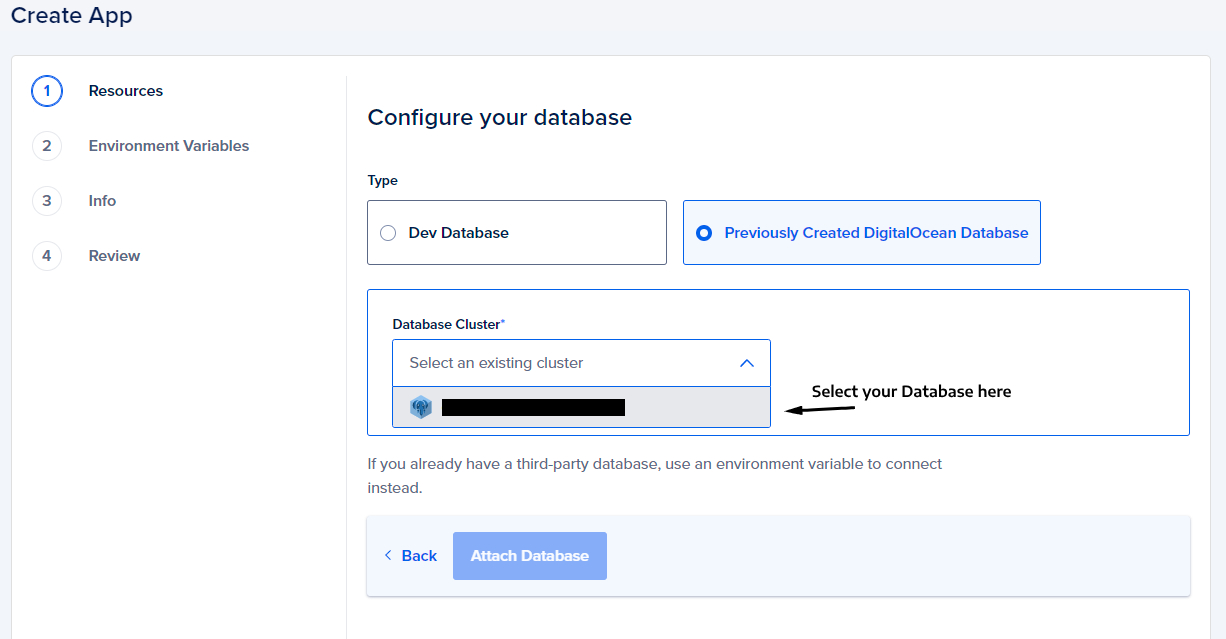
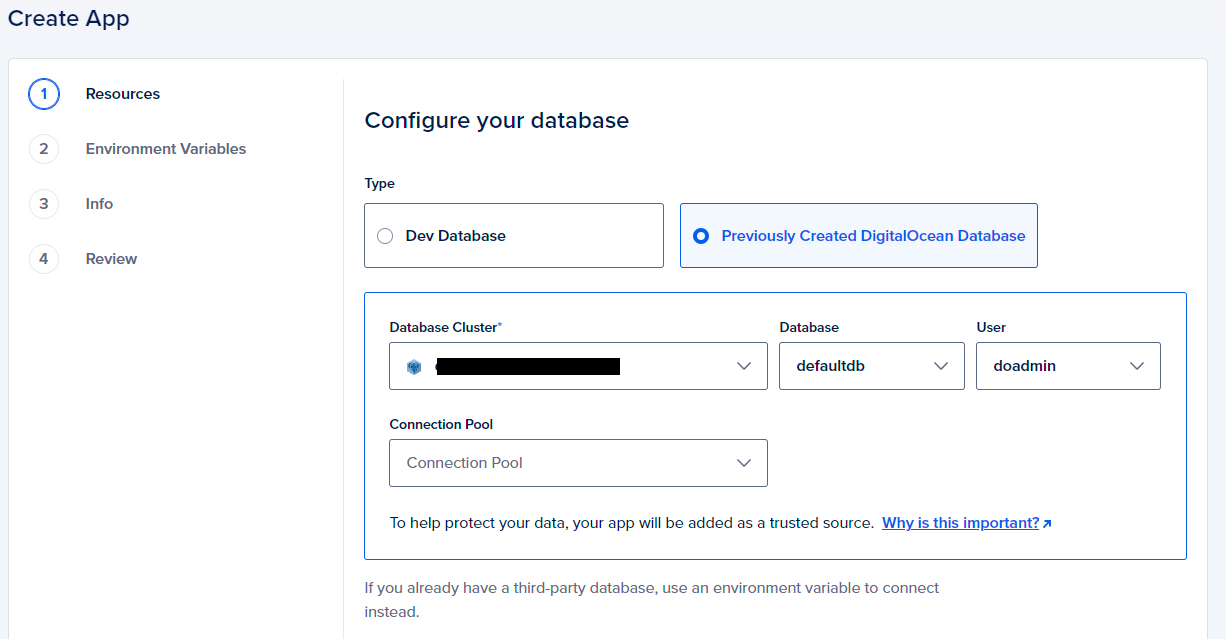
first version

diff --git a/do-apps/index.md b/do-apps/index.md
@@ -22,14 +22,14 @@ Directus has quickly become a big part of my life in such a short amount of time
 
 And today, I am proud to be able to share that passion with you, to help you learn how to "quickly" deploy Directus onto the Digital Ocean App Platform. Using DO Apps will create a fresh build of Directus for you with any extensions you want to add by simply editing the included Dockerfile. 
 
-Now you might be thinking why would I want to use the DO App Platform? Well it's a fully managed solution. You do not have to worry about any underlying infrastructure and it can auto-scale automatically to keep your backend running smoothly.
+Now you might be thinking why would I want to use the DO App Platform? Well it's a fully managed solution. You do not have to worry about any underlying infrastructure and it can auto-scale automatically to keep your backend running smoothly. You can use it for quick development or for full production use. 
 
   
 
 ## Before You Start
 You will need to decide if you are wanting to deploy for development or for production. As this will change the way you configure your app and possibly database. 
 
-If you configuring for development, you do not need a redis server or managed database. (you can attach a development database during configuration steps that can be upgraded to a managed one at a later time)
+If you configuring for development environment, you do not need a redis server or managed database. You can attach a development database during configuration steps that can be upgraded to a managed one at a later time. You would only need redis if you plan to have your dev environment clustered. 
 
 If you are configuring for production (which we are in this post), you will need to setup a managed database and redis droplet. 
 
@@ -62,9 +62,74 @@ You when you reach this page you will see a random generated name for your app. 
 You will also be able to edit the plan for your app (how many containers and how powerful) and also to attach a managed DO database.
 
 ![enter image description here](4.jpg)
-First let's select the managed database you created. While you don't have to "attach" your managed db to the app, it's a best practice as you don't have to worry about any firewall/allow list settings. You can also view the system resources from the same panel.
+First let's select the managed database you created. While you don't have to "attach" your managed db to the app, it's a best practice as you don't have to worry about any firewall/allow list settings. You can also view the system resources from the same panel. Select your cluster, database and user here.
+
+![enter image description here](edit.jpg)
+This is where you can define what resources you want to have as a base layer for your backend. If you have 2 or more containers, than redis is required. You can have as many containers are you like. 
+
+![enter image description here](5.jpg)
+This is where you can insert all the [environment variables](https://docs.directus.io/self-hosted/config-options.html) for Directus. There is a lot to  choose from, but the below should be enough to get your started. Make sure to fill everything out as needed. Using the bulk-editor is a much easier process, and you can edit these variables or add new ones at anytime. 
+
+    KEY=enterakey
+    SECRET=enterasecret
+    DB_CLIENT=pg
+    DB_HOST=dbhost
+    DB_PORT=25060
+    DB_DATABASE=your_db
+    DB_USER=doadmin
+    DB_PASSWORD=dbpass
+    DB_SSL__CA=""
+    STORAGE_LOCATIONS=digitalocean
+	STORAGE_DIGITALOCEAN_DRIVER=s3
+	STORAGE_DIGITALOCEAN_KEY="yourstoragekey"
+	STORAGE_DIGITALOCEAN_SECRET="yoursecret"
+	STORAGE_DIGITALOCEAN_ENDPOINT="endpointurl"
+	STORAGE_DIGITALOCEAN_BUCKET="bucketname"
+	STORAGE_DIGITALOCEAN_REGION="selectedregion"
+	REDIS_HOST="hostip"
+	REDIS_PORT=6379
+	REDIS_PASSWORD="redis-password"
+	CACHE_ENABLED=true
+	CACHE_STORE=redis
+	CACHE_AUTO_PURGE=true
+	MESSENGER_STORE=redis
+	SYNCHRONIZATION_STORE=redis
+    PUBLIC_URL=${APP_URL}
+    ADMIN_EMAIL=youradmin@mail.com
+    ADMIN_PASSWORD=myfirstadminpassword
+
+For your KEY & SECRET you can generate one easily here: [generate-secret.vercel.app/32](https://generate-secret.vercel.app/32)
+For your DB connection settings, you can either use DO's built-in variables or define your own. To learn more about which ones you can use with DO, you can find that [here](https://docs.digitalocean.com/products/app-platform/how-to/use-environment-variables/). You will also need to include the CA cert which can be found with the database connection settings.
+
+![enter image description here](6.jpg)
+Now you can define the name of your app and if you want to include it into a DO project. (a DO project is an easy way to keep multiple resources tagged together)
+
+Next it will you show a quick review of all everything we have configured. Go ahead and click on Create App. This will now start the build and deployment.
+
+## Deployment
+![enter image description here](7.jpg)
+Now all you need to do is sit back and wait while your custom Directus app is built and deployed. DO will cache your newly built image so it can be used to create new container during any auto-scaling. 
+
+![enter image description here](8.jpg)
+After the build is complete, you should see the deployment begin. This will start Directus and runs it's bootstrap process and test that the backend is operational. If all goes well you will be greeted with a successful deployment.
+
+![enter image description here](9.jpg)
+
+![enter image description here](10.jpg)
+This is now your app dashboard. You can see the health of your app. You can see recent deployments, force new ones and more. You will also see your generated app url. If you want to add a new url, all you need to do is go to the settings tab and add it there. SSL is taken care of for you!
 <!-- ## Your Sections Here -->
 
   
 
 ## Summary
+In summary, this is a very high level guide to get you to quickly deploy Directus as a DO App. If you are already ingrained into the Digital Ocean product line, this the App Platform is a great choice to host your backend while utilizing the rest of what Digital Ocean has to offer.
+
+A few things to note:
+
+ - Any changes made to the Environment Variables will instantly trigger a new build and deployment
+ - Any changes made to the Dockerfile in your repo will instantly trigger a new build and deployment
+ - Your backend will NEVER go down during a new build and deployment. Even if the build fails, it will auto fallback to the last healthy image.
+ - As long as you are using Storage and Managed DB, you will never lose any data if you stop the app and want to migrate in the future.
+
+
+I hope you were able to learn what was needed to get yourself up and running. If you have any questions you can find me in the Directus Discord and I would be glad to help. 
